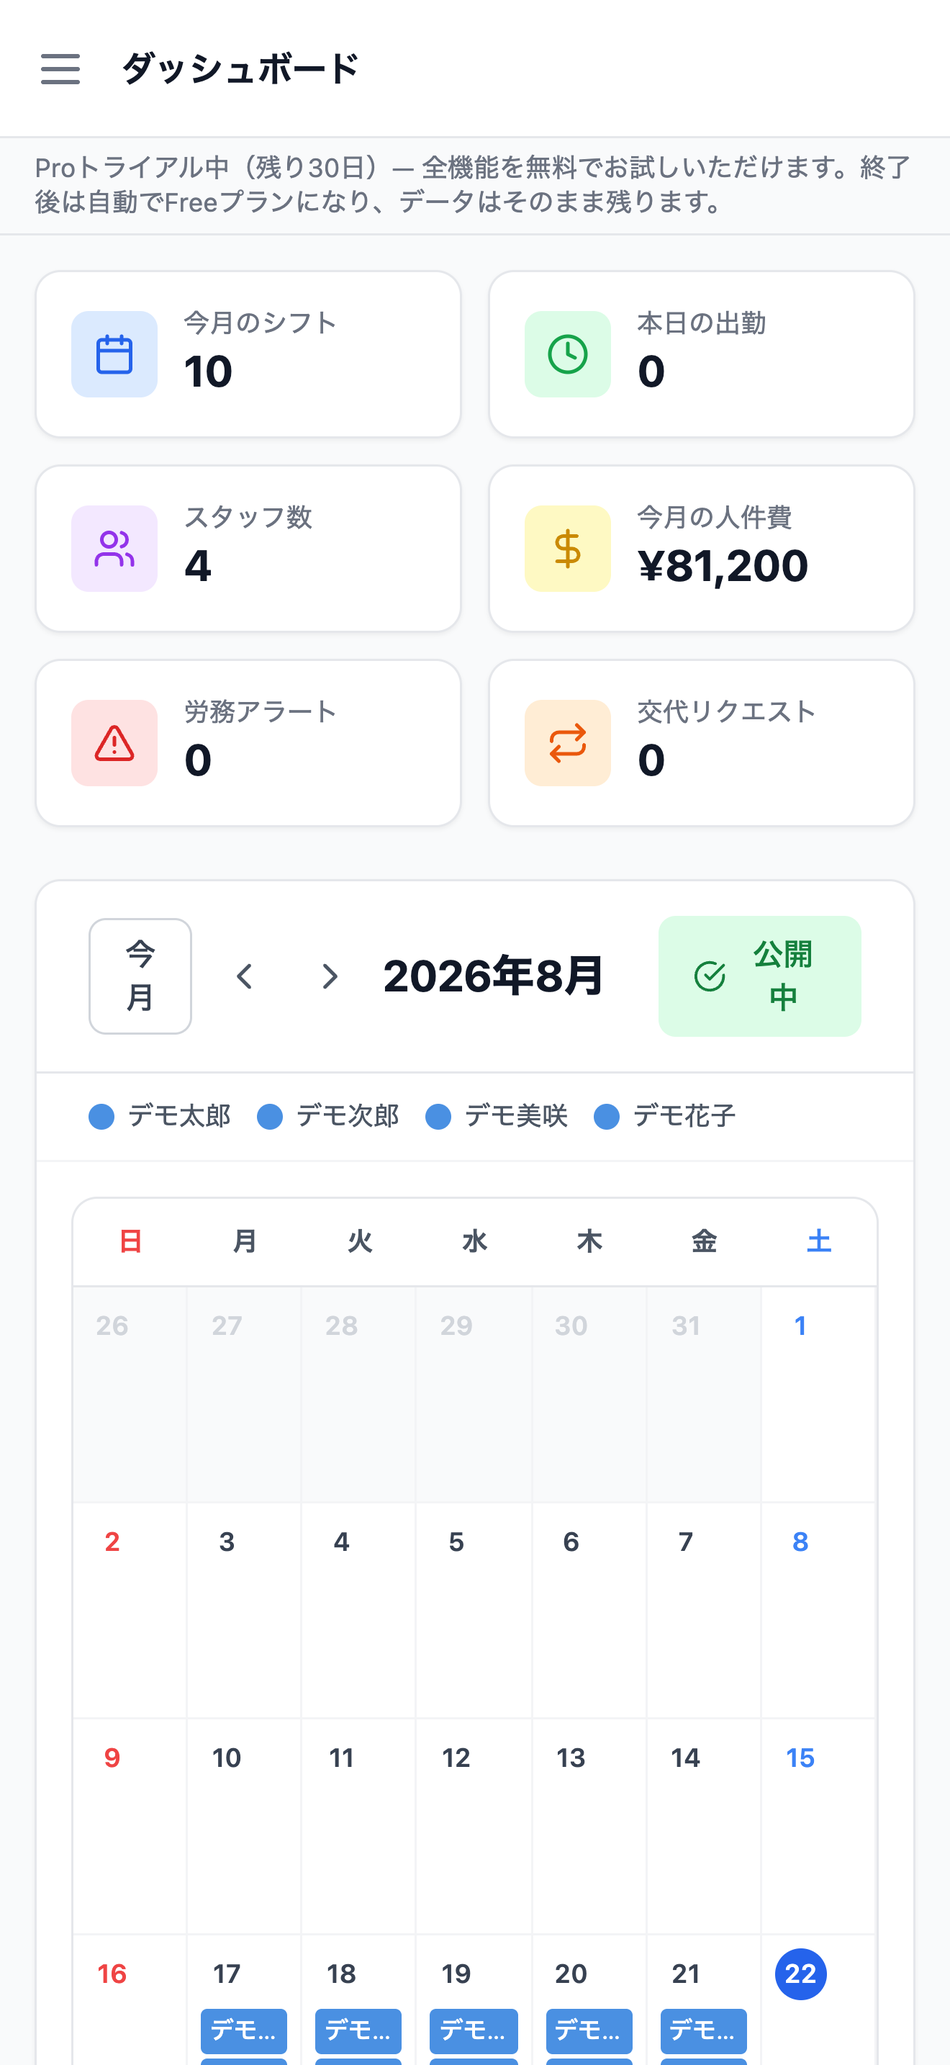
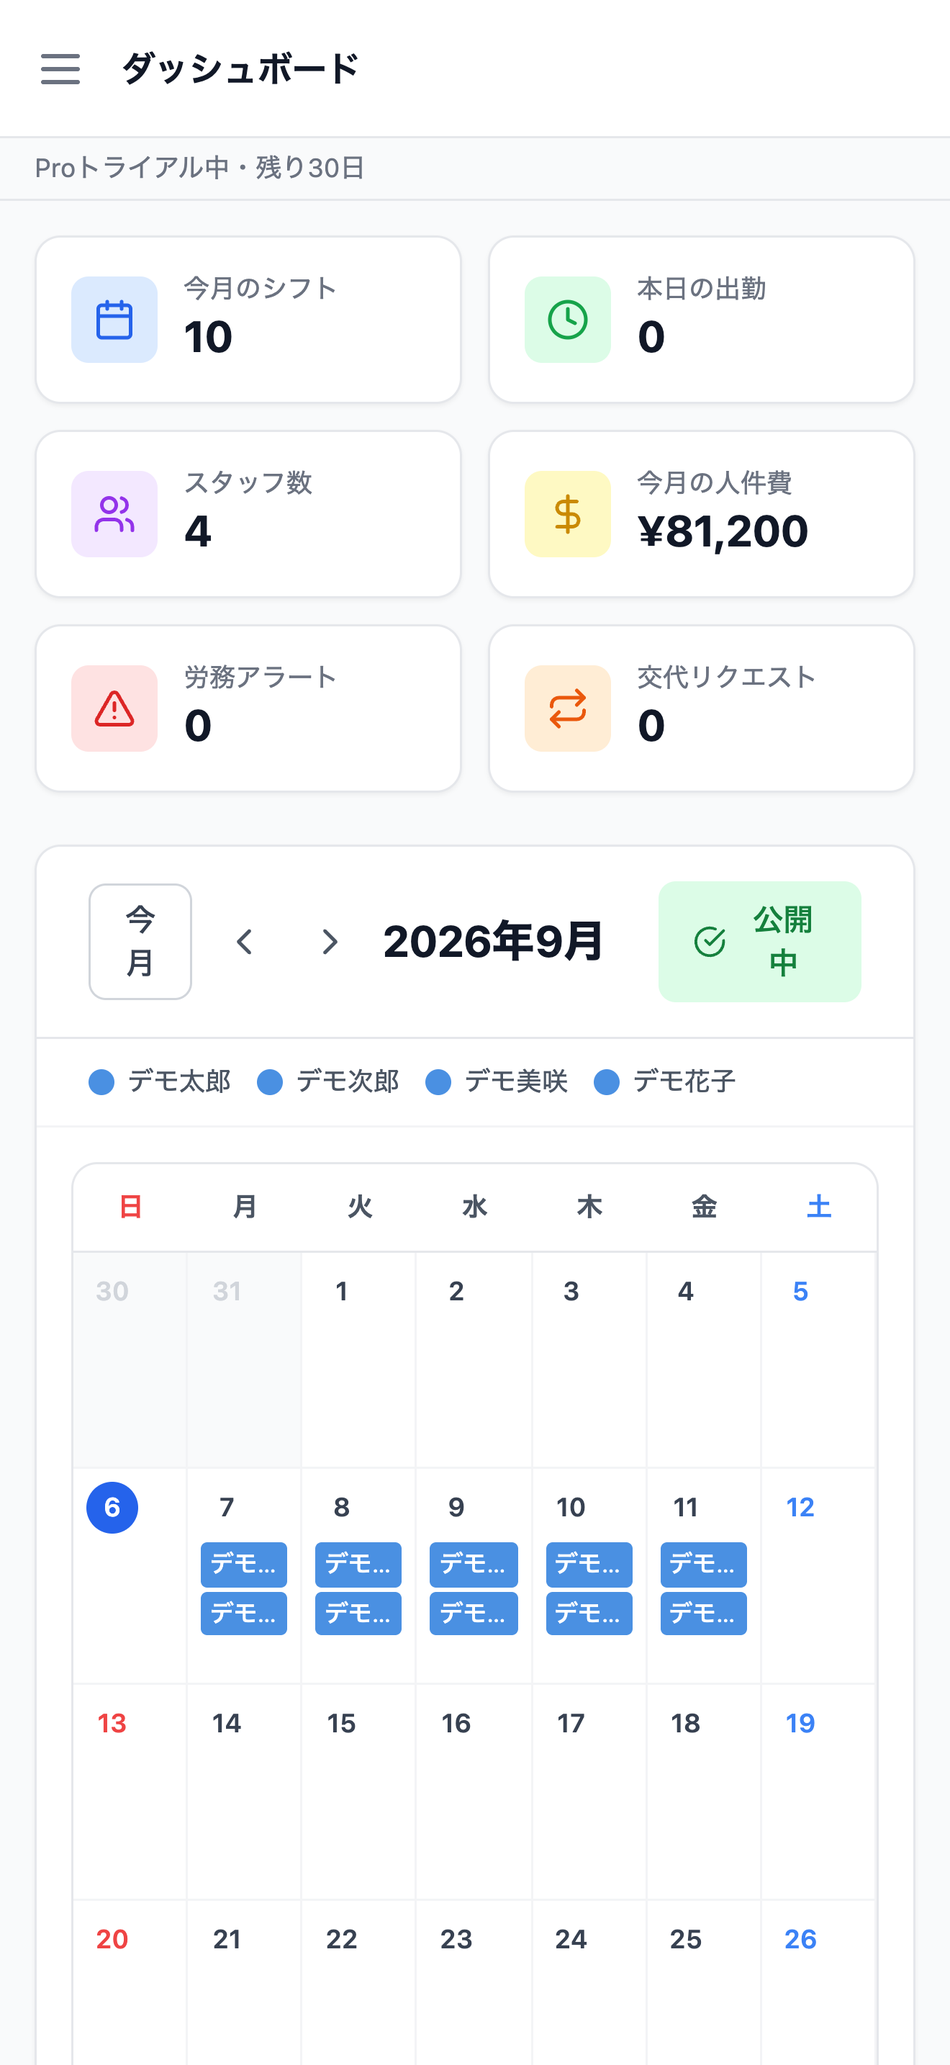
feat(ui): スマホ幅で崩れていた3画面をカード表示に切り替え
iPhone幅（375〜440px）の実機スクショで、スタッフ管理・勤務集計・タイムカードの
表が列を押し込んで文字が縦書きになっていた。md未満ではカード型の縦リストに
切り替え、PC幅の表は従来どおり残す。

- スタッフ管理: 1人1カード（名前・雇用形態・役割・操作ボタン44px）。ツールバーのラベルをスマホでは短縮
- 勤務集計: 1人1カード＋合計行。サマリー3枚は2列＋1枚全幅に
- タイムカード: 1日1カード（M/D（曜）・出退勤・休憩/実労働・編集）。月送りとセレクトを2段に
- トライアル案内バナーをスマホでは1行に
- take-screenshots-ios.js の出力先を OUT_DIR で上書き可能に
- App Store 用スクリーンショットを新UIで撮り直し
- AGENTS.md を追加（コーディングエージェント向けの作業規約）

実装は Codex に委譲し、375/440/1280px でオーバーフロー無し・カード/表の出し分けを確認済み。

diff --git a/frontend/src/pages/ReportPage.tsx b/frontend/src/pages/ReportPage.tsx
@@ -111,14 +111,14 @@ export default function ReportPage() {
           onNext={() => setCurrentDate(d => addMonths(d, 1))}
           onToday={() => setCurrentDate(new Date())}
         />
-        <div className="flex gap-2">
-          <button onClick={() => handleExportCSV('summary')} className="btn-secondary flex items-center gap-2">
+        <div className="flex flex-wrap gap-2 w-full sm:w-auto">
+          <button onClick={() => handleExportCSV('summary')} className="btn-secondary flex items-center justify-center gap-1 sm:gap-2 whitespace-nowrap text-xs sm:text-base px-2 sm:px-4 min-h-[44px] sm:min-h-0">
             <Download className="w-4 h-4" />勤務集計
           </button>
-          <button onClick={() => handleExportCSV('shifts')} className="btn-secondary flex items-center gap-2">
+          <button onClick={() => handleExportCSV('shifts')} className="btn-secondary flex items-center justify-center gap-1 sm:gap-2 whitespace-nowrap text-xs sm:text-base px-2 sm:px-4 min-h-[44px] sm:min-h-0">
             <Download className="w-4 h-4" />シフト
           </button>
-          <button onClick={() => handleExportCSV('timecards')} className="btn-secondary flex items-center gap-2">
+          <button onClick={() => handleExportCSV('timecards')} className="btn-secondary flex items-center justify-center gap-1 sm:gap-2 whitespace-nowrap text-xs sm:text-base px-2 sm:px-4 min-h-[44px] sm:min-h-0">
             <Download className="w-4 h-4" />タイムカード
           </button>
         </div>
@@ -142,32 +142,32 @@ export default function ReportPage() {
       )}
 
       {/* Summary stats */}
-      <div className="grid grid-cols-1 md:grid-cols-3 gap-4">
-        <div className="card flex items-center gap-4">
-          <div className="w-12 h-12 bg-blue-100 rounded-xl flex items-center justify-center">
-            <TrendingUp className="w-6 h-6 text-blue-600" />
+      <div className="grid grid-cols-2 md:grid-cols-3 gap-3 md:gap-4">
+        <div className="card p-3 md:p-6 flex items-center gap-2 md:gap-4">
+          <div className="w-8 h-8 md:w-12 md:h-12 shrink-0 bg-blue-100 rounded-xl flex items-center justify-center">
+            <TrendingUp className="w-4 h-4 md:w-6 md:h-6 text-blue-600" />
           </div>
           <div>
             <p className="text-sm text-gray-500">総シフト数</p>
-            <p className="text-2xl font-bold text-gray-900">{totalShifts}件</p>
+            <p className="text-xl md:text-2xl font-bold text-gray-900">{totalShifts}件</p>
           </div>
         </div>
-        <div className="card flex items-center gap-4">
-          <div className="w-12 h-12 bg-green-100 rounded-xl flex items-center justify-center">
-            <Clock className="w-6 h-6 text-green-600" />
+        <div className="card p-3 md:p-6 flex items-center gap-2 md:gap-4">
+          <div className="w-8 h-8 md:w-12 md:h-12 shrink-0 bg-green-100 rounded-xl flex items-center justify-center">
+            <Clock className="w-4 h-4 md:w-6 md:h-6 text-green-600" />
           </div>
           <div>
             <p className="text-sm text-gray-500">総勤務時間</p>
-            <p className="text-2xl font-bold text-gray-900">{totalHours.toFixed(1)}h</p>
+            <p className="text-xl md:text-2xl font-bold text-gray-900">{totalHours.toFixed(1)}h</p>
           </div>
         </div>
-        <div className="card flex items-center gap-4">
-          <div className="w-12 h-12 bg-yellow-100 rounded-xl flex items-center justify-center">
-            <DollarSign className="w-6 h-6 text-yellow-600" />
+        <div className="card col-span-2 md:col-span-1 p-3 md:p-6 flex items-center gap-2 md:gap-4">
+          <div className="w-8 h-8 md:w-12 md:h-12 shrink-0 bg-yellow-100 rounded-xl flex items-center justify-center">
+            <DollarSign className="w-4 h-4 md:w-6 md:h-6 text-yellow-600" />
           </div>
           <div>
             <p className="text-sm text-gray-500">総人件費</p>
-            <p className="text-2xl font-bold text-gray-900">¥{totalWage.toLocaleString()}</p>
+            <p className="text-xl md:text-2xl font-bold text-gray-900">¥{totalWage.toLocaleString()}</p>
           </div>
         </div>
       </div>
@@ -184,7 +184,25 @@ export default function ReportPage() {
               <h3 className="text-base font-semibold text-gray-900">スタッフ別集計</h3>
             </div>
             <div className="overflow-x-auto">
-              <table className="w-full">
+              <div className="md:hidden divide-y divide-gray-100">
+                {summary.map(row => (
+                  <article key={row.user_id} className="p-4 space-y-2">
+                    <div className="flex items-center justify-between gap-3">
+                      <div className="flex min-w-0 items-center gap-2">
+                        <span className="w-3 h-3 rounded-full shrink-0" style={{ backgroundColor: row.user_color }} />
+                        <span className="text-sm font-medium text-gray-900 break-words">{row.user_name}</span>
+                      </div>
+                      <span className="text-base font-bold text-gray-900 whitespace-nowrap">¥{row.total_wage.toLocaleString()}</span>
+                    </div>
+                    <p className="text-xs text-gray-600">{row.shift_count}日 / {row.total_hours}時間{row.total_minutes_remainder > 0 ? `${row.total_minutes_remainder}分` : ''} / 時給 ¥{row.hourly_wage.toLocaleString()}</p>
+                  </article>
+                ))}
+                <div className="p-4 bg-gray-50 space-y-2">
+                  <div className="flex justify-between gap-3 text-sm font-bold text-gray-900"><span>合計</span><span>¥{totalWage.toLocaleString()}</span></div>
+                  <p className="text-xs text-gray-600">{summary.reduce((s, r) => s + r.shift_count, 0)}日 / {Math.floor(totalHours)}時間{Math.round((totalHours % 1) * 60) > 0 ? `${Math.round((totalHours % 1) * 60)}分` : ''}</p>
+                </div>
+              </div>
+              <table className="hidden md:table w-full">
                 <thead>
                   <tr className="bg-gray-50 border-b border-gray-200">
                     <th className="text-left px-6 py-3 text-xs font-semibold text-gray-500 uppercase">スタッフ</th>

diff --git a/frontend/src/pages/StaffPage.tsx b/frontend/src/pages/StaffPage.tsx
@@ -288,27 +288,27 @@ export default function StaffPage() {
 
   return (
     <div className="space-y-6">
-      <div className="flex items-center justify-between">
-        <div>
+      <div className="flex flex-wrap items-center justify-between gap-3">
+        <div className="w-full sm:w-auto">
           <h2 className="text-lg font-semibold text-gray-900">スタッフ一覧</h2>
           <p className="text-sm text-gray-500 mt-0.5">{users.length}名登録中</p>
         </div>
-        <div className="flex items-center gap-2">
+        <div className="flex flex-wrap items-center gap-2 w-full sm:w-auto">
           {companyPin && (
             <button
               onClick={() => setQrOpen(true)}
-              className="flex items-center gap-2 px-4 py-2 text-sm font-medium text-blue-700 bg-blue-50 border border-blue-200 rounded-lg hover:bg-blue-100"
+              className="flex items-center justify-center whitespace-nowrap min-h-[44px] sm:min-h-0 gap-2 px-3 sm:px-4 py-2 text-sm font-medium text-blue-700 bg-blue-50 border border-blue-200 rounded-lg hover:bg-blue-100"
             >
               <QrCode className="w-4 h-4" />
-              店舗共通QRを表示
+              <span className="sm:hidden">QR</span><span className="hidden sm:inline">店舗共通QRを表示</span>
             </button>
           )}
           <button
             onClick={() => freeStaffLimitReached ? startProCheckout() : setBulkOpen(true)}
-            className="flex items-center gap-2 px-4 py-2 text-sm font-medium text-gray-700 bg-white border border-gray-200 rounded-lg hover:bg-gray-50"
+            className="flex items-center justify-center whitespace-nowrap min-h-[44px] sm:min-h-0 gap-2 px-3 sm:px-4 py-2 text-sm font-medium text-gray-700 bg-white border border-gray-200 rounded-lg hover:bg-gray-50"
           >
             <Upload className="w-4 h-4" />
-            CSV一括登録
+            <span className="sm:hidden">一括登録</span><span className="hidden sm:inline">CSV一括登録</span>
           </button>
           <button
             onClick={() => {
@@ -319,7 +319,7 @@ export default function StaffPage() {
                 setModalOpen(true)
               }
             }}
-            className="btn-primary flex items-center gap-2"
+            className="btn-primary flex items-center gap-2 whitespace-nowrap text-sm sm:text-base px-3 sm:px-4 min-h-[44px] sm:min-h-0"
           >
             <Plus className="w-4 h-4" />
             スタッフ追加
@@ -393,7 +393,33 @@ export default function StaffPage() {
         </div>
       ) : (
         <div className="card p-0 overflow-hidden">
-          <table className="w-full">
+          <div className="md:hidden divide-y divide-gray-100">
+            {users.map(u => (
+              <article key={u.id} className="p-4 space-y-3">
+                <div className="flex items-center gap-2">
+                  <span className="w-3 h-3 rounded-full shrink-0" style={{ backgroundColor: u.color }} />
+                  <p className="min-w-0 flex-1 text-sm font-medium text-gray-900 break-words">{u.name}</p>
+                  <span className={`shrink-0 whitespace-nowrap text-xs px-2 py-0.5 rounded-full ${(u as any).employment_type === 'full_time' ? 'bg-blue-100 text-blue-700' : 'bg-orange-100 text-orange-700'}`}>
+                    {(u as any).employment_type === 'full_time' ? '社員' : 'パート'}
+                  </span>
+                </div>
+                <div className="flex flex-wrap items-center gap-2">
+                  <span className={`whitespace-nowrap ${u.role === 'admin' ? 'badge-confirmed' : 'badge-approved'}`}>{u.role === 'admin' ? '管理者' : 'スタッフ'}</span>
+                  {isNeverLoggedIn(u) && <span className="text-xs text-amber-700 bg-amber-100 rounded px-2 py-0.5">未ログイン</span>}
+                  {u.phone && <span className="text-xs text-gray-400">{u.phone}</span>}
+                </div>
+                <div className="flex items-center gap-1">
+                  {u.role === 'staff' && (
+                    <button onClick={() => setInviteUser(u)} className="min-h-[44px] px-2 text-xs whitespace-nowrap text-green-700 border border-green-200 rounded-lg hover:bg-green-50">ログイン案内</button>
+                  )}
+                  <button onClick={() => setResetPasswordUser(u)} className="min-h-[44px] px-2 text-xs whitespace-nowrap text-gray-500 border border-gray-200 rounded-lg hover:bg-gray-100">PW変更</button>
+                  <button onClick={() => { setEditingUser(u); setModalOpen(true) }} className="min-h-[44px] px-2 text-xs whitespace-nowrap text-gray-500 border border-gray-200 rounded-lg hover:bg-blue-50">編集</button>
+                  <button onClick={() => handleDelete(u)} aria-label={`${u.name}を削除`} className="min-h-[44px] min-w-[44px] ml-auto flex items-center justify-center text-gray-500 hover:text-red-600 hover:bg-red-50 rounded-lg"><Trash2 className="w-4 h-4" /></button>
+                </div>
+              </article>
+            ))}
+          </div>
+          <table className="hidden md:table w-full">
             <thead>
               <tr className="border-b border-gray-200 bg-gray-50">
                 <th className="text-left px-6 py-3 text-xs font-semibold text-gray-500 uppercase tracking-wider">スタッフ</th>

diff --git a/frontend/src/pages/TimecardPage.tsx b/frontend/src/pages/TimecardPage.tsx
@@ -418,8 +418,8 @@ export default function TimecardPage() {
 
       {/* Monthly records */}
       <div className="bg-white rounded-xl border border-gray-200">
-        <div className="flex items-center justify-between p-4 border-b border-gray-200">
-          <div className="flex items-center gap-3">
+        <div className="flex flex-wrap items-center justify-between gap-3 p-4 border-b border-gray-200">
+          <div className="flex items-center gap-3 w-full sm:w-auto whitespace-nowrap">
             <button onClick={prevMonth} className="p-1.5 hover:bg-gray-100 rounded-lg">
               <ChevronLeft className="w-5 h-5" />
             </button>
@@ -428,12 +428,12 @@ export default function TimecardPage() {
               <ChevronRight className="w-5 h-5" />
             </button>
           </div>
-          <div className="flex items-center gap-3">
+          <div className="flex items-center gap-3 w-full sm:w-auto">
             {isAdmin && (
               <select
                 value={selectedUserId || ''}
                 onChange={e => setSelectedUserId(e.target.value ? parseInt(e.target.value) : undefined)}
-                className="px-3 py-1.5 border border-gray-300 rounded-lg text-sm"
+                className="min-w-0 flex-1 sm:flex-none min-h-[44px] sm:min-h-0 px-3 py-1.5 border border-gray-300 rounded-lg text-sm"
               >
                 <option value="">全スタッフ</option>
                 {adminStaff.map(s => (
@@ -444,7 +444,7 @@ export default function TimecardPage() {
             <button
               onClick={exportCSV}
               disabled={checkoutLoading}
-              className="flex items-center gap-1.5 px-3 py-1.5 border border-gray-300 rounded-lg text-sm hover:bg-gray-50"
+              className="flex items-center whitespace-nowrap shrink-0 min-h-[44px] sm:min-h-0 gap-1.5 px-3 py-1.5 border border-gray-300 rounded-lg text-sm hover:bg-gray-50"
             >
               <Download className="w-4 h-4" />
               {checkoutLoading ? 'Proへ移動中...' : 'CSV'}
@@ -453,7 +453,29 @@ export default function TimecardPage() {
         </div>
 
         <div className="overflow-x-auto">
-          <table className="w-full text-sm">
+          <div className="md:hidden divide-y divide-gray-100">
+            {records.map(rec => {
+              const date = new Date(`${rec.date}T00:00:00`)
+              const dayOfWeek = date.getDay()
+              const isWeekend = dayOfWeek === 0 || dayOfWeek === 6
+              return (
+                <article key={rec.id} className={`p-4 space-y-2 ${isWeekend ? 'bg-red-50/30' : ''}`}>
+                  <div className="flex items-center justify-between gap-2 text-sm whitespace-nowrap">
+                    <span className={isWeekend ? 'text-red-600' : 'text-gray-900'}>{date.getMonth() + 1}/{date.getDate()}（{'日月火水木金土'[dayOfWeek]}）</span>
+                    <span className="font-mono text-gray-900">{rec.clock_in || '-'} → {rec.clock_out || '-'}</span>
+                  </div>
+                  {isAdmin && <div className="flex items-center gap-2 text-sm text-gray-900"><span className="w-3 h-3 rounded-full shrink-0" style={{ backgroundColor: rec.user_color || '#4A90E2' }} /><span className="break-words min-w-0">{rec.user_name}</span></div>}
+                  <div className="flex items-center justify-between gap-2">
+                    <p className="text-xs text-gray-600">休憩{rec.break_minutes || 0}分 ・ 実労働{calcHours(rec)}</p>
+                    {isAdmin && <button onClick={() => openEdit(rec)} aria-label={`${rec.date} ${rec.user_name || ''}のタイムカードを編集`} className="min-w-[44px] min-h-[44px] shrink-0 flex items-center justify-center text-gray-400 hover:text-blue-600 hover:bg-blue-50 rounded-lg"><Edit2 className="w-4 h-4" /></button>}
+                  </div>
+                  {rec.notes && <p className="text-xs text-gray-500 break-words">{rec.notes}</p>}
+                </article>
+              )
+            })}
+            {records.length === 0 && <p className="px-4 py-8 text-center text-sm text-gray-500">この月のタイムカードデータはありません</p>}
+          </div>
+          <table className="hidden md:table w-full text-sm">
             <thead>
               <tr className="bg-gray-50 text-gray-600">
                 <th className="text-left px-4 py-3 font-medium">日付</th>

diff --git a/frontend/src/components/PlanBanner.tsx b/frontend/src/components/PlanBanner.tsx
@@ -9,7 +9,7 @@ import { IapError, purchasePro } from '../native/iap'
 // 課金タイミング設計:
 // - トライアル残り7日以下: 黄色バナーで残日数と「Proを続ける」を常時表示
 // - トライアル終了後(Free): その日1回だけ閉じられる案内バナー（データは消えない旨を明言して不安による解約・放置を防ぐ）
-// - Pro/トライアル中(8日以上): 何も出さない（利用の邪魔をしない）
+// - トライアル中(8日以上): 控えめな状態表示。Proは表示しない
 export default function PlanBanner() {
   const { user, selectedCompany } = useAuth()
   const [plan, setPlan] = useState<BillingPlan | null>(null)
@@ -81,7 +81,8 @@ export default function PlanBanner() {
     return (
       <div className="bg-gray-50 border-b border-gray-200 px-4 py-1.5">
         <p className="text-xs text-gray-500">
-          Proトライアル中（残り{plan.trial_days_left}日）— 全機能を無料でお試しいただけます。終了後は自動でFreeプランになり、データはそのまま残ります。
+          <span className="md:hidden whitespace-nowrap">Proトライアル中・残り{plan.trial_days_left}日</span>
+          <span className="hidden md:inline">Proトライアル中（残り{plan.trial_days_left}日）— 全機能を無料でお試しいただけます。終了後は自動でFreeプランになり、データはそのまま残ります。</span>
         </p>
       </div>
     )

diff --git a/store-assets/take-screenshots-ios.js b/store-assets/take-screenshots-ios.js
@@ -16,7 +16,7 @@ const path = require('path');
 const BASE_URL = process.env.SHIFTLOG_URL || 'https://shiftlog-production.up.railway.app';
 const EMAIL = process.env.SHIFTLOG_EMAIL || 'admin@example.com';
 const PASSWORD = process.env.SHIFTLOG_PASSWORD || 'admin123';
-const OUT = path.join(__dirname, 'screenshots-ios');
+const OUT = process.env.OUT_DIR || path.join(__dirname, 'screenshots-ios');
 
 // iPhone 6.9インチ: 440 x 956 論理ピクセル × 3 = 1320 x 2868
 const VIEWPORT = { width: 440, height: 956, deviceScaleFactor: 3 };

diff --git a/AGENTS.md b/AGENTS.md
@@ -1,0 +1,35 @@
+# AGENTS.md — シフトログ（販売用）
+
+コーディングエージェント向けの作業規約。人向けの概要は `CLAUDE.md` を参照。
+
+## 構成
+- `frontend/` React 18 + TypeScript + Vite + Tailwind 3。`src/pages/*.tsx` が画面、`src/components/` が共通部品、`src/api/client.ts` がAPI型と呼び出し
+- `frontend/src/native/` iOS（Capacitor）専用。Web では no-op。ここを壊さないこと
+- `backend/` Express + better-sqlite3。`src/routes/*.ts` がAPI、`src/db.ts` がスキーマとマイグレーション
+- 本番は Railway。`main` に push すると自動デプロイされる
+
+## 必ず守ること
+- **依存パッケージを増やさない**（Tailwind と lucide-react の範囲で作る）
+- API のリクエスト/レスポンス形は変えない。フロント側の見た目・構造の変更に留める
+- コメント・UI文言は日本語。既存コードの命名・書き方に合わせる
+- `frontend/.npmrc` と CORS 設定（`backend/src/index.ts`）には触らない
+- 画面幅 375〜440px（iPhone）を第一に考える。PC幅（1024px以上）の既存レイアウトは壊さない
+- ダークモードは `.dark` クラスで既存の置換ルール（`index.css`）が効く。`bg-white` / `text-gray-900` など既存のトークンを使えば自動で追従する
+
+## 検証コマンド（作業の最後に必ず通す）
+```bash
+cd frontend && npx tsc --noEmit && npm run build
+cd backend  && npx tsc --noEmit && npm run build
+```
+
+## 画面の確認方法（任意）
+```bash
+# 一時DBでサーバーを起動し、デモデータ入りアカウントを作る
+cd backend && npm run build
+DB_PATH=/tmp/shiftlog-ui.db PORT=3991 node dist/index.js &
+API_BASE=http://127.0.0.1:3991 REVIEW_EMAIL=ui@example.com REVIEW_PASSWORD=Screenshot123 node scripts/create-review-account.js
+
+# iPhone 6.9インチ相当（440×956 @3x）でスクリーンショットを撮る
+cd ../store-assets
+SHIFTLOG_URL=http://127.0.0.1:3991 SHIFTLOG_EMAIL=ui@example.com SHIFTLOG_PASSWORD=Screenshot123 node take-screenshots-ios.js
+```
